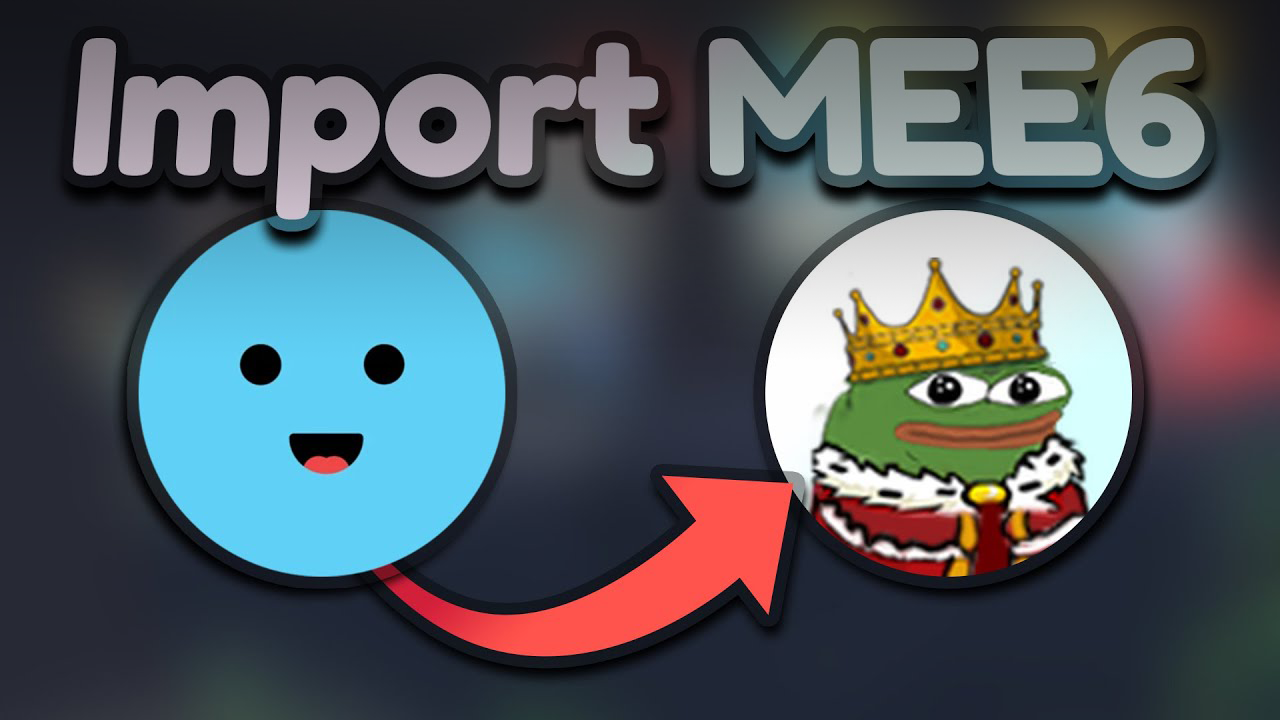
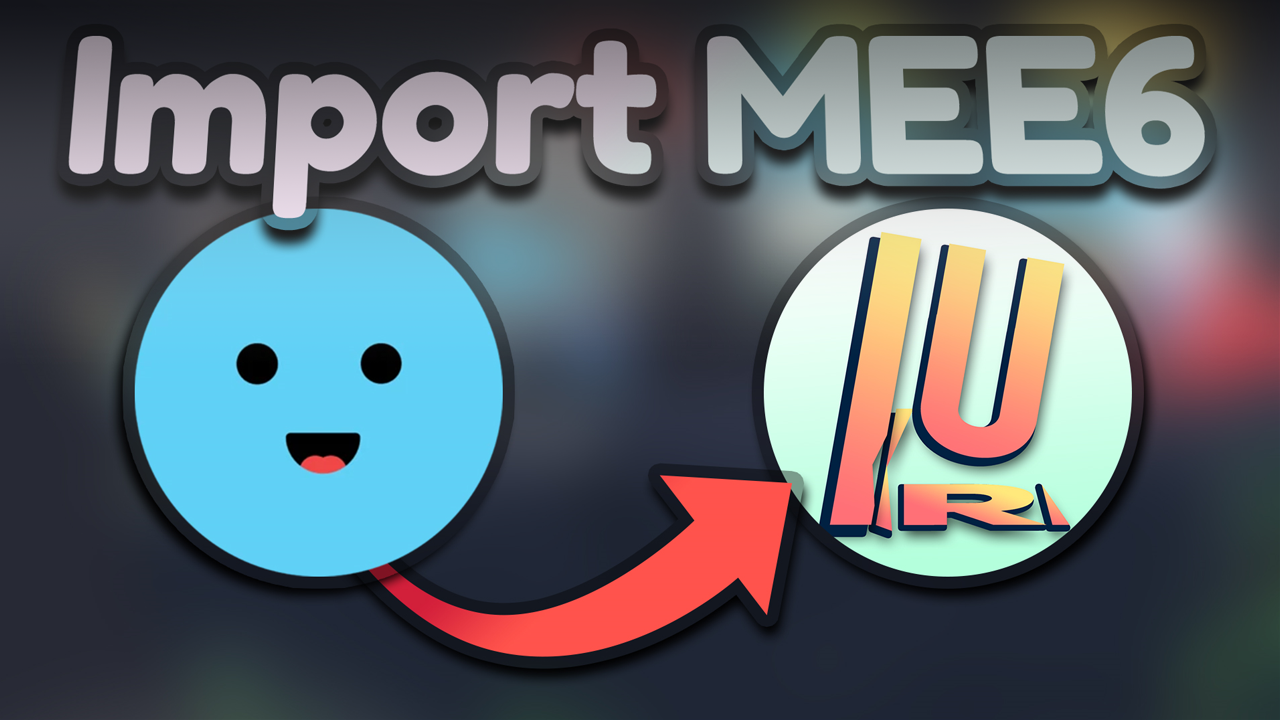
update promotional video

diff --git a/src/pages/index.tsx b/src/pages/index.tsx
@@ -95,7 +95,7 @@ export default function Home() {
 						/>
 
 						<span className="overflow-hidden text-ellipsis whitespace-nowrap text-lg text-white">
-							Free Mee6 Leveling Bot? | Pepe Manager
+							Free Mee6 Leveling Bot? | Lurkr
 						</span>
 					</div>
 
